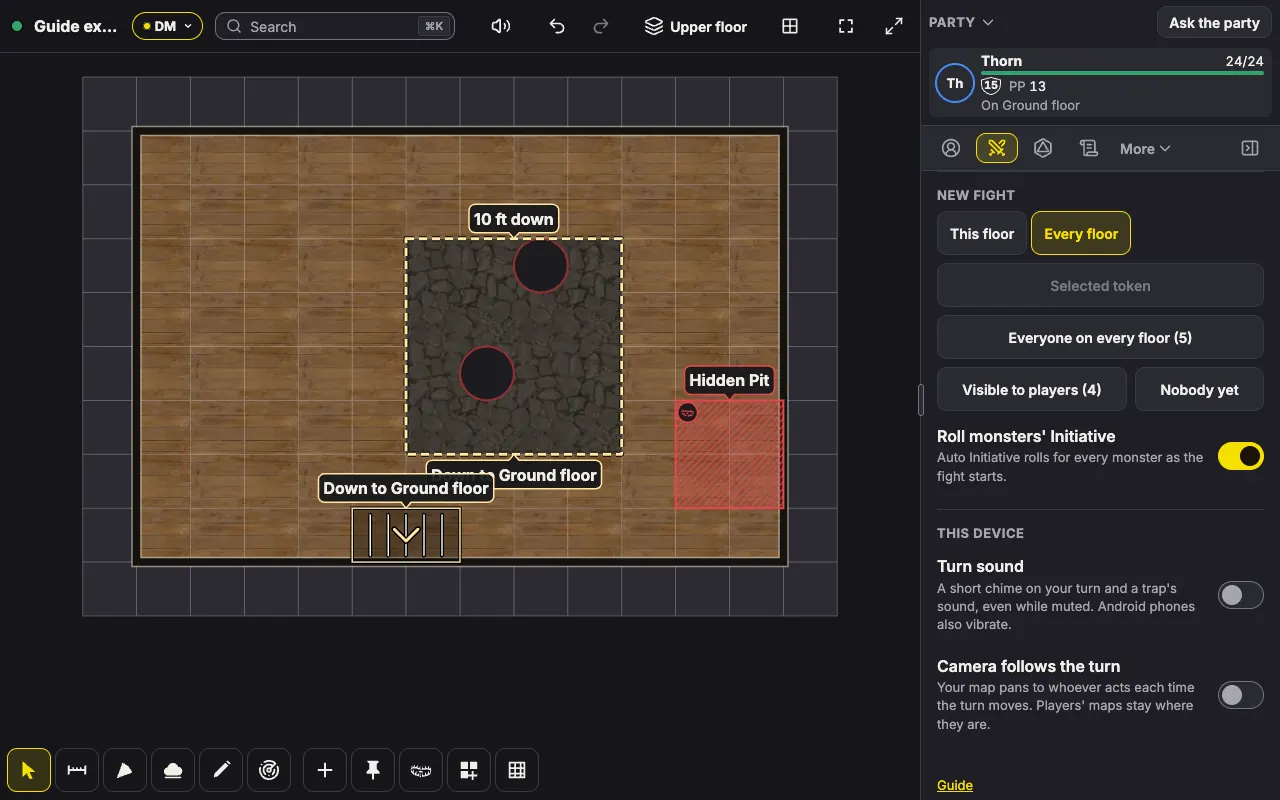
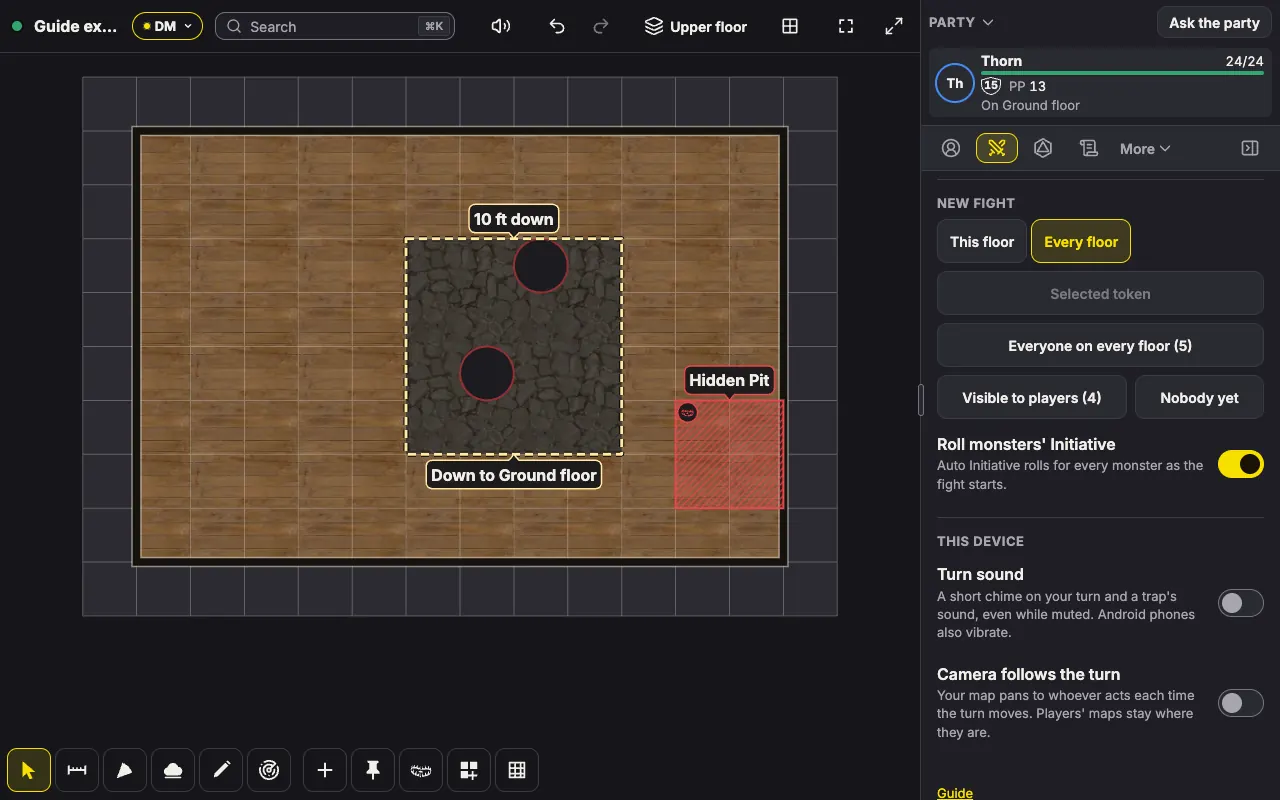
docs(guide): retake the every floor fight picture with one chip on the map, from a panel scroll that leaves the page alone

diff --git a/scripts/guide-floors-phase4.ts b/scripts/guide-floors-phase4.ts
@@ -76,6 +76,18 @@ async function quiet(page: Page): Promise<void> {
   await waitFor("no toast", async () => ((await page.locator("[data-toast]").count()) === 0 ? true : null), 20_000);
 }
 
+/** Scrolls only the side panel so `target` stands at its top, and puts the page itself back at the top. */
+async function scrollPanelTo(page: Page, target: Locator): Promise<void> {
+  await target.evaluate((el) => {
+    type Box = { scrollTop: number; scrollHeight: number; clientHeight: number; parentElement: Box | null; getBoundingClientRect(): { top: number } };
+    let box = (el as unknown as { closest(s: string): Box | null }).closest('[role="tabpanel"]');
+    while (box && !(box.scrollHeight > box.clientHeight + 5)) box = box.parentElement;
+    if (box) box.scrollTop += (el as unknown as Box).getBoundingClientRect().top - box.getBoundingClientRect().top - 8;
+    (globalThis as unknown as { scrollTo(x: number, y: number): void }).scrollTo(0, 0);
+  });
+  await page.waitForTimeout(300);
+}
+
 const work = mkdtempSync(path.join(tmpdir(), "raccoon-guide-floors4-"));
 const server = await startServer({ port: PORT, assetDir: path.join(work, "assets"), databaseUrl: DATABASE_URL });
 const browser = await chromium.launch({ channel: "chrome", headless: true });
@@ -224,6 +236,19 @@ try {
   await key(dm, "Escape");
   await pickTool(dm, "Select");
 
+  // Shot 5b: New fight with Every floor chosen, the buttons counting the creatures of all three floors. It comes before the
+  // stairs, so the opening is the only pair on the map and its chip stands clear.
+  const tracker = await panel(dm, "Initiative");
+  const newFight = tracker.locator("section").filter({ has: dm.locator('[data-search="tracker.new-fight"]') }).last();
+  const fightFloors = newFight.getByRole("radiogroup", { name: "Floors", exact: true });
+  await fightFloors.waitFor();
+  await fightFloors.getByRole("radio", { name: "Every floor", exact: true }).check();
+  await newFight.getByRole("button", { name: /^Everyone on every floor \(\d+\)$/ }).waitFor();
+  await scrollPanelTo(dm, newFight);
+  await quiet(dm);
+  await picture(dm, "floors-fight-every-floor");
+  await fightFloors.getByRole("radio", { name: "This floor", exact: true }).check();
+
   // Shot 6: stairs whose ends lie on other squares, with Line up.
   await onFloor(dm, "Ground floor");
   const down = randomUUID();
@@ -258,18 +283,6 @@ try {
   await outliner.locator("[data-other-floor]").first().waitFor();
   await quiet(dm);
   await picture(dm, "floors-outliner-other");
-
-  // Shot 7c: New fight with Every floor chosen, the buttons counting the creatures of all three floors.
-  const tracker = await panel(dm, "Initiative");
-  const newFight = tracker.locator("section").filter({ has: dm.locator('[data-search="tracker.new-fight"]') }).last();
-  const fightFloors = newFight.getByRole("radiogroup", { name: "Floors", exact: true });
-  await fightFloors.waitFor();
-  await fightFloors.getByRole("radio", { name: "Every floor", exact: true }).check();
-  await newFight.getByRole("button", { name: /^Everyone on every floor \(\d+\)$/ }).waitFor();
-  await newFight.evaluate((el) => (el as unknown as { scrollIntoView(o: unknown): void }).scrollIntoView({ block: "start" }));
-  await quiet(dm);
-  await picture(dm, "floors-fight-every-floor");
-  await fightFloors.getByRole("radio", { name: "This floor", exact: true }).check();
 
   // Shot 8: Export as image on Every floor, the player view.
   const scenes = await panel(dm, "Scenes");
